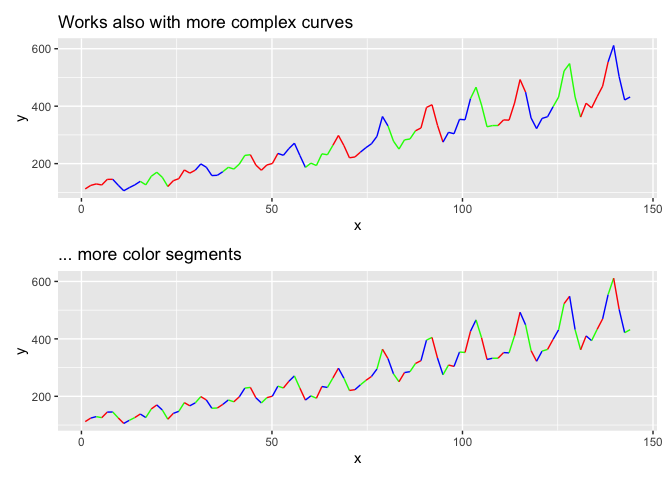
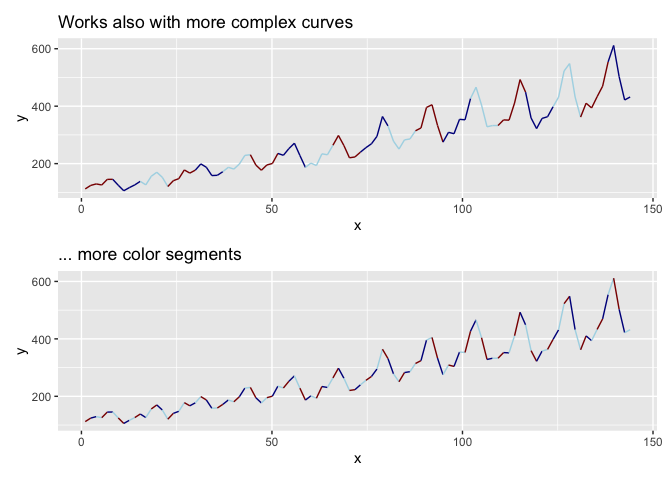
update readme

diff --git a/README.md b/README.md
@@ -8,12 +8,12 @@
 
 ## Features
 
+- **geom_roundseg**: Make round segments that start and end where they
+  should.
 - **geom_colorpath**: Lines with alternating colors.
 - **scale_aes_craftfermenter**: Extended brewer scales for binned scales
   (for color and fill aesthetic).
 - **long guide ticks** for color scales (doesn’t really work yet)
-- \*\*convenience scale calls that modify both x and y scales at the
-  same time
 
 ## Installation
 
@@ -72,19 +72,22 @@ library(patchwork)
 dat <- data.frame(x = seq(2,10, 2), y = seq(4,20, 4))
 
 p1 <- ggplot(dat, aes(x = x, y = y)) +
-  geom_colorpath()+
+  geom_colorpath(linewidth = 2)+
   ggtitle("Default colors")
 
 p2 <- ggplot(dat, aes(x, y)) +
-  geom_colorpath(cols = c("red", "blue"))+
+  geom_colorpath(linewidth = 2,
+        cols = c("lightblue", "darkblue"))+
   ggtitle("Two colors")
 
 p3 <- ggplot(dat, aes(x, y)) +
-  geom_colorpath(cols = c("red", "blue", "green"))+
+  geom_colorpath(linewidth = 2, 
+    cols = c("darkred", "darkblue", "lightblue"))+
   ggtitle("Three colors")
 
 p4 <- ggplot(dat, aes(x, y)) +
-  geom_colorpath(cols = c("red", "blue", "green", "white"))+
+  geom_colorpath(linewidth = 2, 
+                 cols = c("darkred", "darkblue", "lightblue", "white"))+
   ggtitle("Four colors")
 
 wrap_plots(mget(ls(pattern = "p[1-9]")))
@@ -97,11 +100,11 @@ wrap_plots(mget(ls(pattern = "p[1-9]")))
 air_df <- data.frame(x = 1: length(AirPassengers), y = c(AirPassengers))
 
 a1 <- ggplot(air_df, aes(x, y)) +
-  geom_colorpath(cols = c("red", "blue", "green"))+
+  geom_colorpath(cols = c("darkred", "darkblue", "lightblue"))+
   ggtitle("Works also with more complex curves")
 
 a2 <- ggplot(air_df, aes(x, y)) +
-  geom_colorpath(cols = c("red", "blue", "green"), n_seg = 150)+
+  geom_colorpath(cols = c("darkred", "darkblue", "lightblue"), n_seg = 150)+
   ggtitle("... more color segments")
 
 a1 / a2
